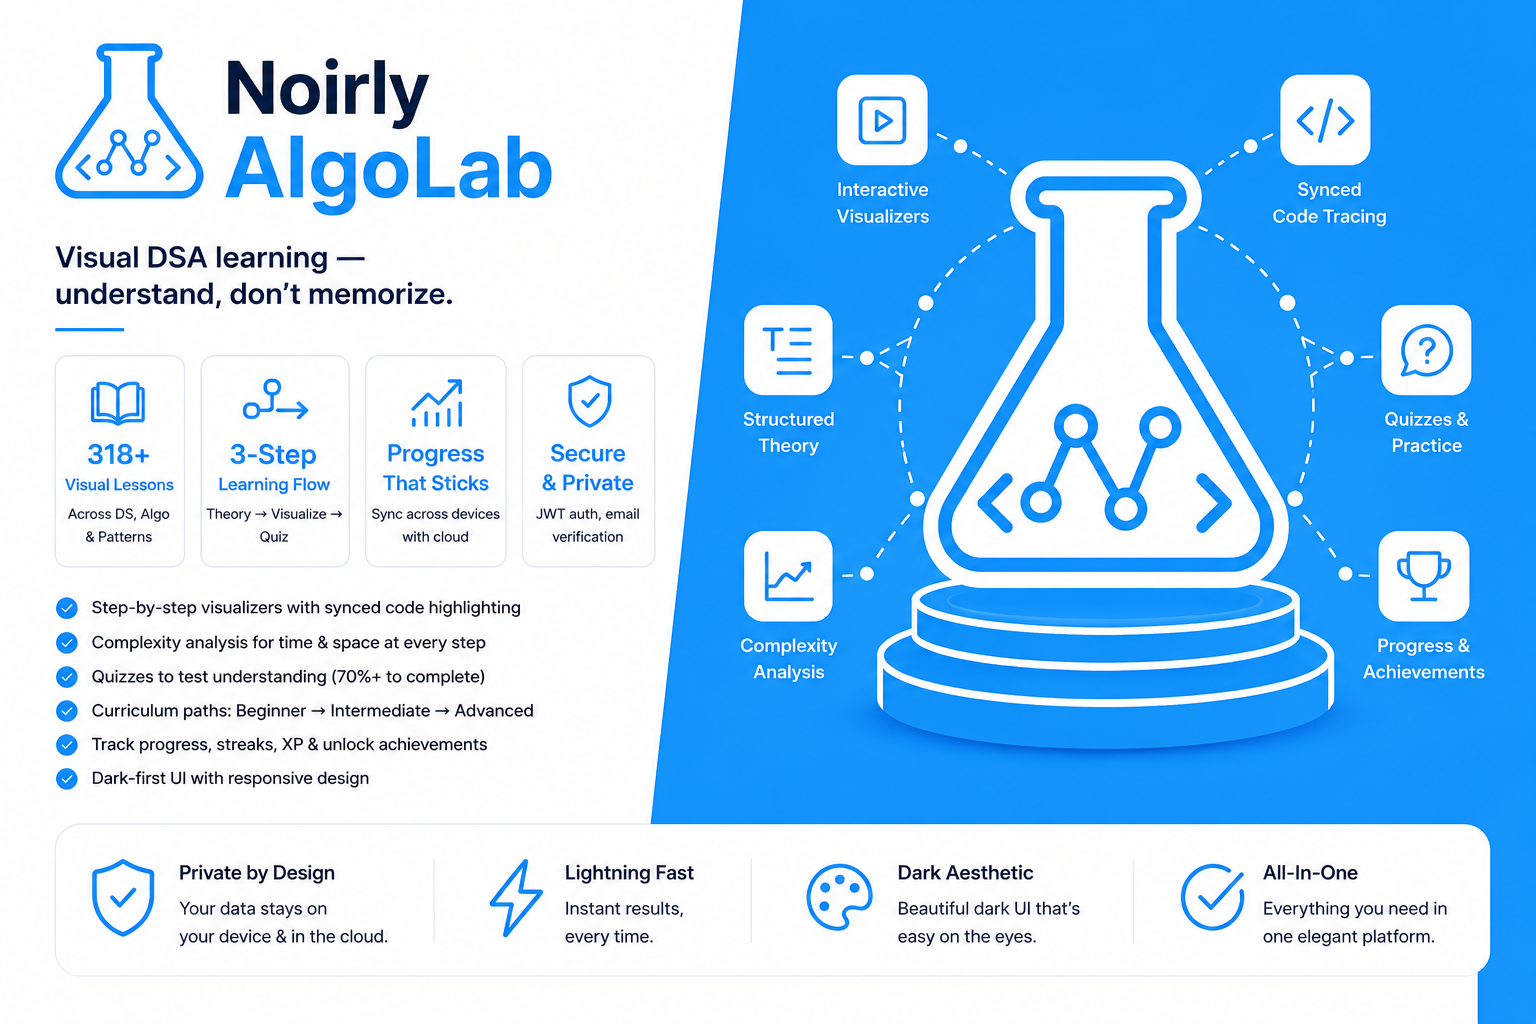
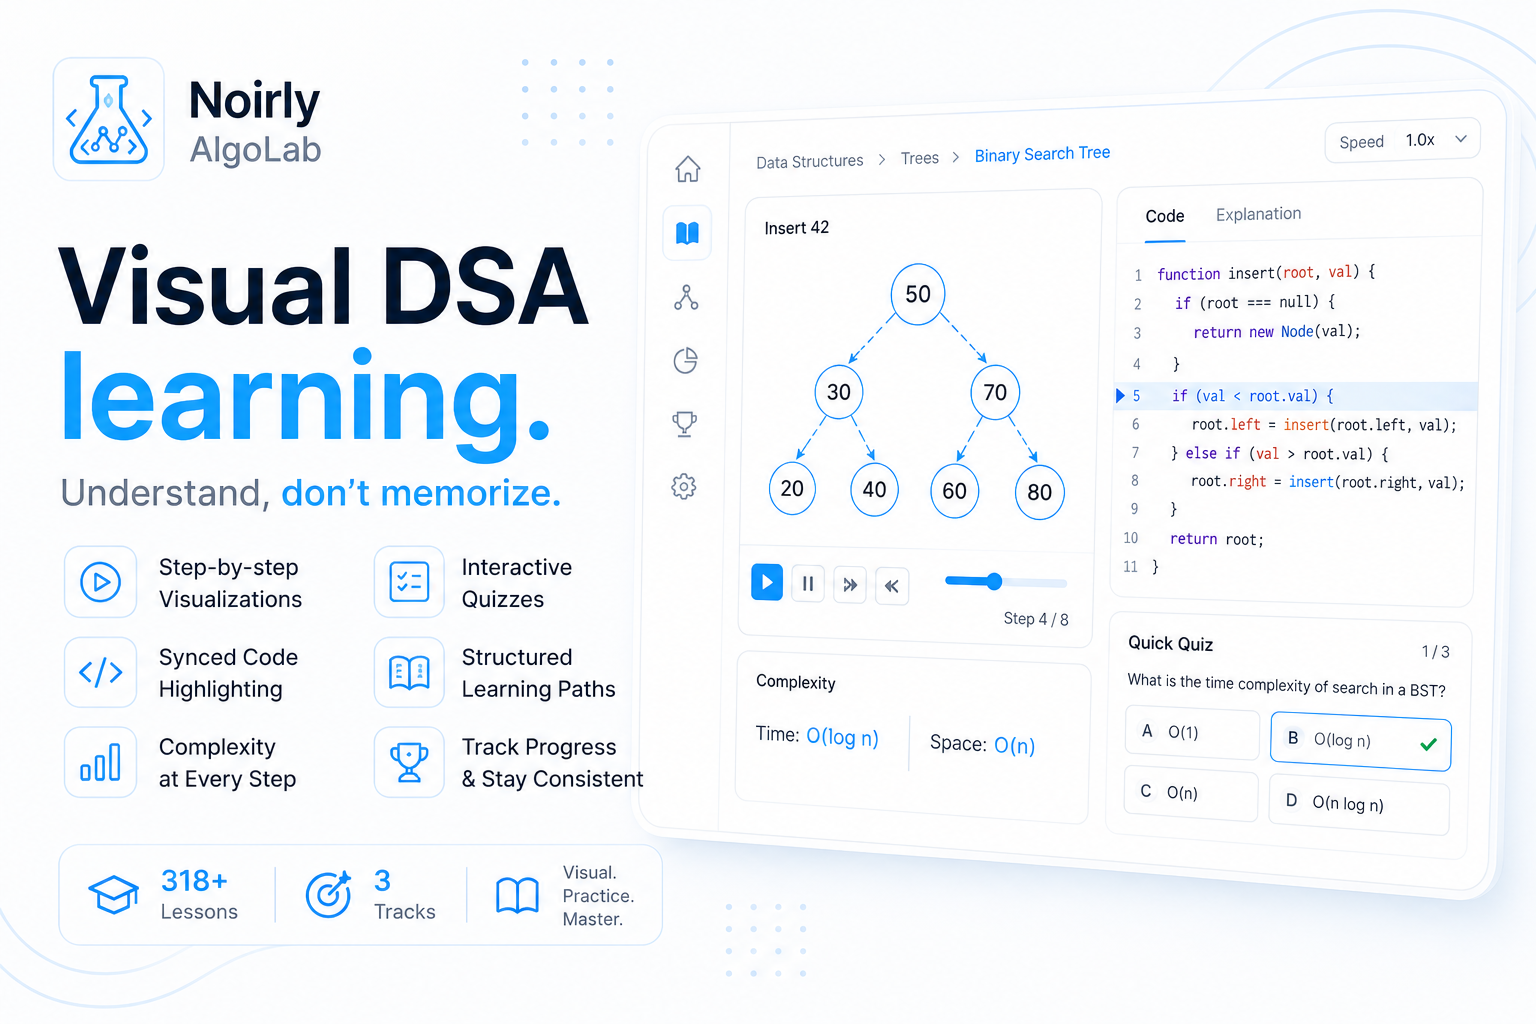
theme changes

diff --git a/lib/theme-colors.ts b/lib/theme-colors.ts
@@ -1,54 +1,82 @@
+import { noirlyTheme } from './noirly-theme';
+
+const { dark: darkTokens, light: lightTokens } = noirlyTheme;
+
 export const lightColors = {
-  background: '#FFFFFF',
-  surface: '#F8FAFC',
-  primary: '#0284C7',
+  background: lightTokens.background,
+  surface: lightTokens.surface,
+  primary: lightTokens.primary,
 } as const;
 
 export const darkColors = {
-  background: '#0B0F19',
-  surface: '#111827',
-  primary: '#38BDF8',
+  background: darkTokens.background,
+  surface: darkTokens.surface,
+  primary: darkTokens.primary,
 } as const;
 
-/** Full semantic palette derived from the core 3 colors */
+/** Full semantic palette derived from noirlyTheme */
 export interface ThemePalette {
   background: string;
   surface: string;
   surfaceHigh: string;
   surfaceDim: string;
   primary: string;
+  primaryHover: string;
+  primarySoft: string;
   onSurface: string;
   onSurfaceVariant: string;
+  textMuted: string;
   outline: string;
   outlineVariant: string;
   tertiary: string;
   onPrimary: string;
+  success: string;
+  warning: string;
+  error: string;
+  icon: string;
+  iconActive: string;
 }
 
 export const lightPalette: ThemePalette = {
-  background: lightColors.background,
-  surface: lightColors.surface,
-  surfaceHigh: '#F1F5F9',
-  surfaceDim: '#FFFFFF',
-  primary: lightColors.primary,
-  onSurface: '#0F172A',
-  onSurfaceVariant: '#64748B',
-  outline: '#CBD5E1',
-  outlineVariant: '#E2E8F0',
-  tertiary: '#EA580C',
-  onPrimary: '#FFFFFF',
+  background: lightTokens.background,
+  surface: lightTokens.surface,
+  surfaceHigh: lightTokens.surfaceVariant,
+  surfaceDim: lightTokens.surface,
+  primary: lightTokens.primary,
+  primaryHover: lightTokens.primaryHover,
+  primarySoft: lightTokens.primarySoft,
+  onSurface: lightTokens.textPrimary,
+  onSurfaceVariant: lightTokens.textSecondary,
+  textMuted: lightTokens.textMuted,
+  outline: lightTokens.border,
+  outlineVariant: lightTokens.divider,
+  tertiary: lightTokens.warning,
+  onPrimary: lightTokens.textPrimary,
+  success: lightTokens.success,
+  warning: lightTokens.warning,
+  error: lightTokens.error,
+  icon: lightTokens.icon,
+  iconActive: lightTokens.iconActive,
 };
 
 export const darkPalette: ThemePalette = {
-  background: darkColors.background,
-  surface: darkColors.surface,
-  surfaceHigh: '#1F2937',
-  surfaceDim: darkColors.background,
-  primary: darkColors.primary,
-  onSurface: '#F1F5F9',
-  onSurfaceVariant: '#94A3B8',
-  outline: '#475569',
-  outlineVariant: '#334155',
-  tertiary: '#FBBF24',
-  onPrimary: '#0B0F19',
+  background: darkTokens.background,
+  surface: darkTokens.surface,
+  surfaceHigh: darkTokens.surfaceVariant,
+  surfaceDim: darkTokens.background,
+  primary: darkTokens.primary,
+  primaryHover: darkTokens.primaryHover,
+  primarySoft: darkTokens.primarySoft,
+  onSurface: darkTokens.textPrimary,
+  onSurfaceVariant: darkTokens.textSecondary,
+  textMuted: darkTokens.textMuted,
+  outline: darkTokens.border,
+  outlineVariant: darkTokens.divider,
+  tertiary: darkTokens.warning,
+  onPrimary: darkTokens.background,
+  success: darkTokens.success,
+  warning: darkTokens.warning,
+  error: darkTokens.error,
+  icon: darkTokens.icon,
+  iconActive: darkTokens.iconActive,
 };

diff --git a/app/globals.css b/app/globals.css
@@ -26,7 +26,12 @@
   --color-on-secondary-container: var(--theme-on-surface-variant);
   --color-secondary-container: var(--theme-surface-high);
   --color-inverse-surface: var(--theme-on-surface);
-  --color-error: #ef4444;
+  --color-error: var(--theme-error);
+  --color-success: var(--theme-success);
+  --color-warning: var(--theme-warning);
+  --color-primary-hover: var(--theme-primary-hover);
+  --color-icon: var(--theme-icon);
+  --color-icon-active: var(--theme-icon-active);
 
   --font-display: var(--font-geist-sans);
   --font-display-mobile: var(--font-geist-sans);
@@ -78,46 +83,60 @@
   --radius-full: 9999px;
 }
 
-/* Dark theme — #0B0F19 / #111827 / #38BDF8 */
+/* Dark theme — noirlyTheme */
 html.dark {
-  --theme-background: #0b0f19;
-  --theme-surface: #111827;
-  --theme-surface-high: #1f2937;
-  --theme-surface-dim: #0b0f19;
+  --theme-background: #020617;
+  --theme-surface: #0f172a;
+  --theme-surface-high: #111827;
+  --theme-surface-dim: #020617;
   --theme-primary: #38bdf8;
-  --theme-on-surface: #f1f5f9;
+  --theme-primary-hover: #0ea5e9;
+  --theme-on-surface: #f8fafc;
   --theme-on-surface-variant: #94a3b8;
-  --theme-outline: #475569;
+  --theme-text-muted: #64748b;
+  --theme-outline: #1e293b;
   --theme-outline-variant: #334155;
-  --theme-tertiary: #fbbf24;
-  --theme-on-primary: #0b0f19;
-  --theme-glass-bg: rgba(17, 24, 39, 0.75);
+  --theme-tertiary: #f59e0b;
+  --theme-on-primary: #020617;
+  --theme-success: #22c55e;
+  --theme-warning: #f59e0b;
+  --theme-error: #ef4444;
+  --theme-icon: #e2e8f0;
+  --theme-icon-active: #38bdf8;
+  --theme-glass-bg: rgba(15, 23, 42, 0.75);
   --theme-glass-border: rgba(255, 255, 255, 0.1);
-  --theme-scrollbar-track: #0b0f19;
+  --theme-scrollbar-track: #020617;
   --theme-scrollbar-thumb: rgba(255, 255, 255, 0.15);
-  --theme-accent-muted: rgba(56, 189, 248, 0.12);
+  --theme-accent-muted: #082f49;
   --theme-accent-border: rgba(56, 189, 248, 0.35);
 }
 
-/* Light theme — #FFFFFF / #F8FAFC / #0284C7 */
+/* Light theme — noirlyTheme */
 html.light {
-  --theme-background: #ffffff;
-  --theme-surface: #f8fafc;
+  --theme-background: #f8fafc;
+  --theme-surface: #ffffff;
   --theme-surface-high: #f1f5f9;
   --theme-surface-dim: #ffffff;
-  --theme-primary: #0284c7;
-  --theme-on-surface: #0f172a;
-  --theme-on-surface-variant: #64748b;
-  --theme-outline: #cbd5e1;
-  --theme-outline-variant: #e2e8f0;
-  --theme-tertiary: #ea580c;
-  --theme-on-primary: #ffffff;
+  --theme-primary: #38bdf8;
+  --theme-primary-hover: #0284c7;
+  --theme-on-surface: #020617;
+  --theme-on-surface-variant: #475569;
+  --theme-text-muted: #94a3b8;
+  --theme-outline: #e2e8f0;
+  --theme-outline-variant: #cbd5e1;
+  --theme-tertiary: #d97706;
+  --theme-on-primary: #020617;
+  --theme-success: #16a34a;
+  --theme-warning: #d97706;
+  --theme-error: #dc2626;
+  --theme-icon: #334155;
+  --theme-icon-active: #38bdf8;
   --theme-glass-bg: rgba(255, 255, 255, 0.9);
   --theme-glass-border: rgba(0, 0, 0, 0.08);
   --theme-scrollbar-track: #f1f5f9;
   --theme-scrollbar-thumb: rgba(0, 0, 0, 0.15);
-  --theme-accent-muted: rgba(2, 132, 199, 0.08);
-  --theme-accent-border: rgba(2, 132, 199, 0.3);
+  --theme-accent-muted: #e0f2fe;
+  --theme-accent-border: rgba(56, 189, 248, 0.3);
 }
 
 .material-symbols-outlined {

diff --git a/lib/noirly-theme.ts b/lib/noirly-theme.ts
@@ -1,0 +1,41 @@
+export const noirlyTheme = {
+  dark: {
+    background: '#020617',
+    surface: '#0F172A',
+    surfaceVariant: '#111827',
+    primary: '#38BDF8',
+    primaryHover: '#0EA5E9',
+    primarySoft: '#082F49',
+    textPrimary: '#F8FAFC',
+    textSecondary: '#94A3B8',
+    textMuted: '#64748B',
+    border: '#1E293B',
+    divider: '#334155',
+    success: '#22C55E',
+    warning: '#F59E0B',
+    error: '#EF4444',
+    icon: '#E2E8F0',
+    iconActive: '#38BDF8',
+  },
+  light: {
+    background: '#F8FAFC',
+    surface: '#FFFFFF',
+    surfaceVariant: '#F1F5F9',
+    primary: '#38BDF8',
+    primaryHover: '#0284C7',
+    primarySoft: '#E0F2FE',
+    textPrimary: '#020617',
+    textSecondary: '#475569',
+    textMuted: '#94A3B8',
+    border: '#E2E8F0',
+    divider: '#CBD5E1',
+    success: '#16A34A',
+    warning: '#D97706',
+    error: '#DC2626',
+    icon: '#334155',
+    iconActive: '#38BDF8',
+  },
+} as const;
+
+export type NoirlyThemeMode = keyof typeof noirlyTheme;
+export type NoirlyThemeTokens = (typeof noirlyTheme)[NoirlyThemeMode];